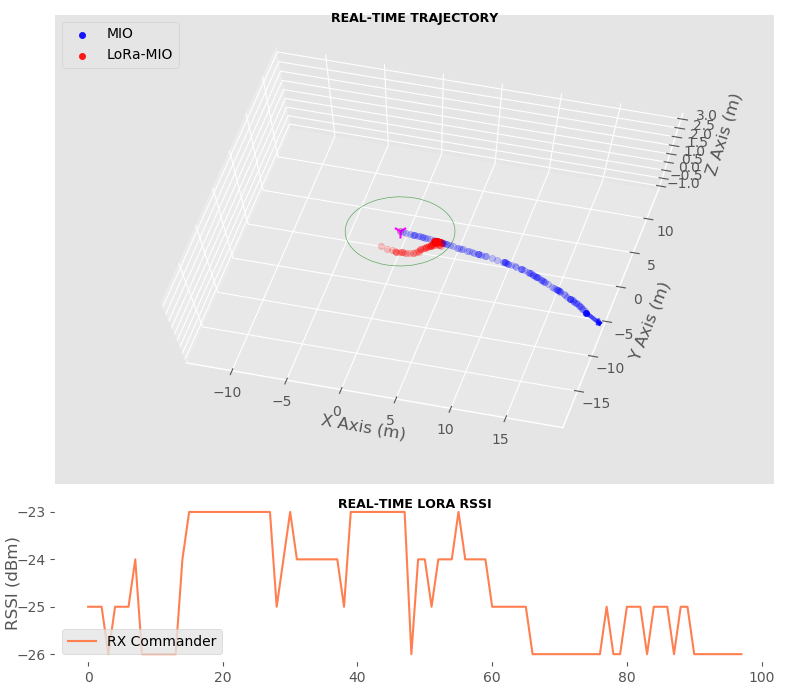
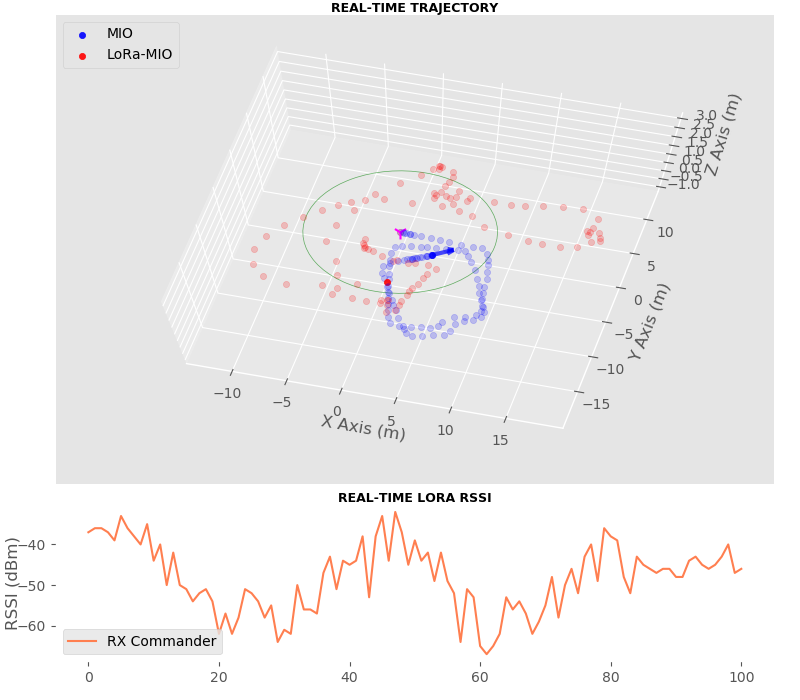
attempt to introduce anchor=0 to decouple RSSI

diff --git a/replay.py b/replay.py
@@ -113,7 +113,7 @@ class EKF_Fusion_MultiRX_AngularV(EKF_Fusion):
         self.my_kf.F = eye(5)
 
         # TWEEK PARAMS
-        self.my_kf.x = np.array([-1.0, -1.5, 0., 0.1, 0.0]).reshape(-1, 1)
+        self.my_kf.x = np.array([-1.0, -0.5, 0., 0.1, 0.0]).reshape(-1, 1)
         # Error Cov of Initial State
         self.my_kf.P = np.diag(np.array([4.0, 4.0, 0.1, 1.0, 0.01]))
         # Process Noise Cov
@@ -157,9 +157,9 @@ class EKF_Fusion_MultiRX_AngularV(EKF_Fusion):
             # Refresh Measurement noise R
             # Tip1: TRANS_X uncertainty larger than TRANS_Y
             # Tip2: Large ROT_Z noise loses abs_yaw; Small ROT_Z noise loses track
-            self.my_kf.R[0, 0] = 0.001  # self.sigma_list[-g][0]*1000
-            self.my_kf.R[1, 1] = 0.0001  # self.sigma_list[-g][1]*1000
-            self.my_kf.R[2, 2] = 0.000001  # self.sigma_list[-g][-1]**2 # Sigma of ROT_Z
+            self.my_kf.R[0, 0] = 0.04  # self.sigma_list[-g][0]*1000
+            self.my_kf.R[1, 1] = 0.001  # self.sigma_list[-g][1]*1000
+            self.my_kf.R[2, 2] = 0.0001  # self.sigma_list[-g][-1]**2 # Sigma of ROT_Z
             for rowcol in range(3, 3+self.anchor):
                 self.my_kf.R[rowcol, rowcol] = 4 * SIGMA**2
 

diff --git a/EKF.py b/EKF.py
@@ -24,7 +24,7 @@ R1 = np.array([[0., 0., 0.],
                [5., 4., 0.],
                [2., -2.5, 0.]])
 # Path Loss Model params
-ALPHA = -45.712  # -28.57 * 1.6
+ALPHA = -55#-45.712  # -28.57 * 1.6
 BETA = -5.06
 SIGMA = 4.887
 
